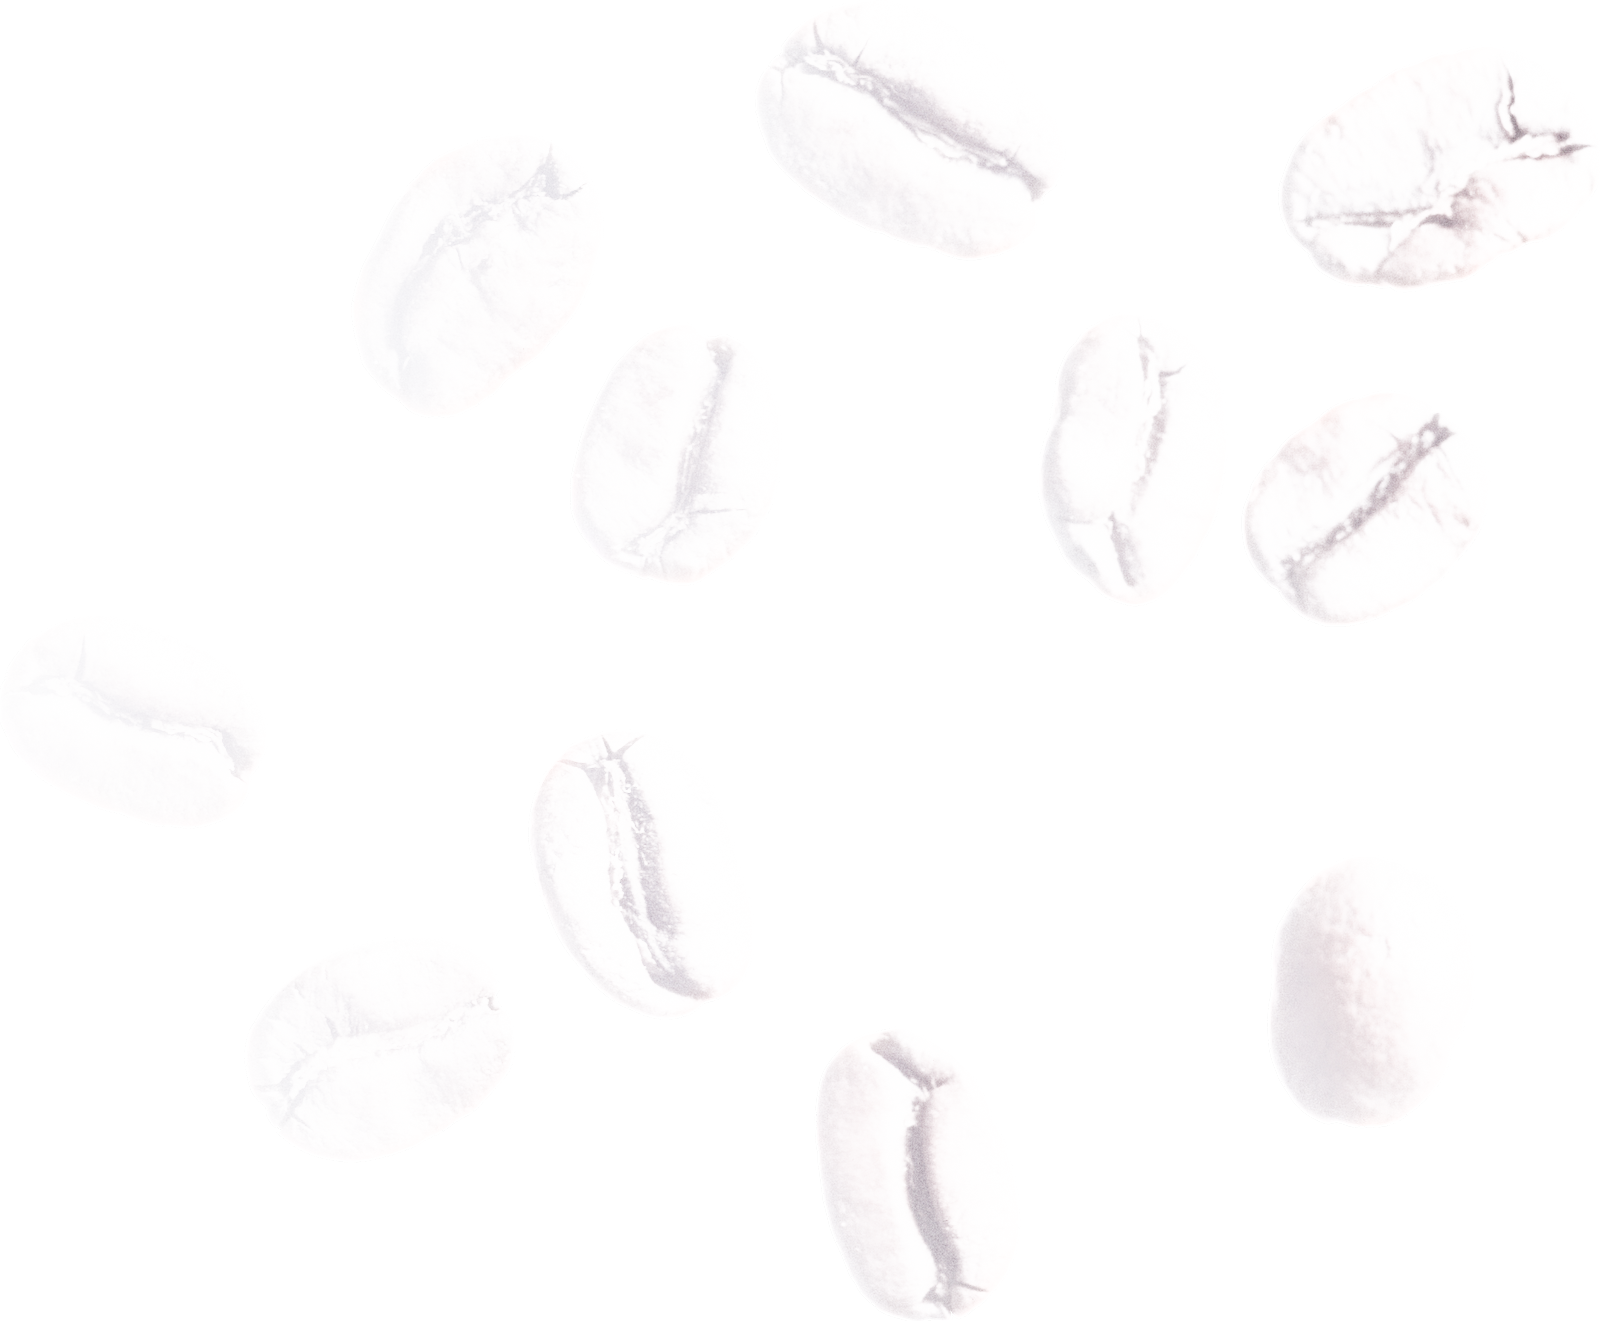
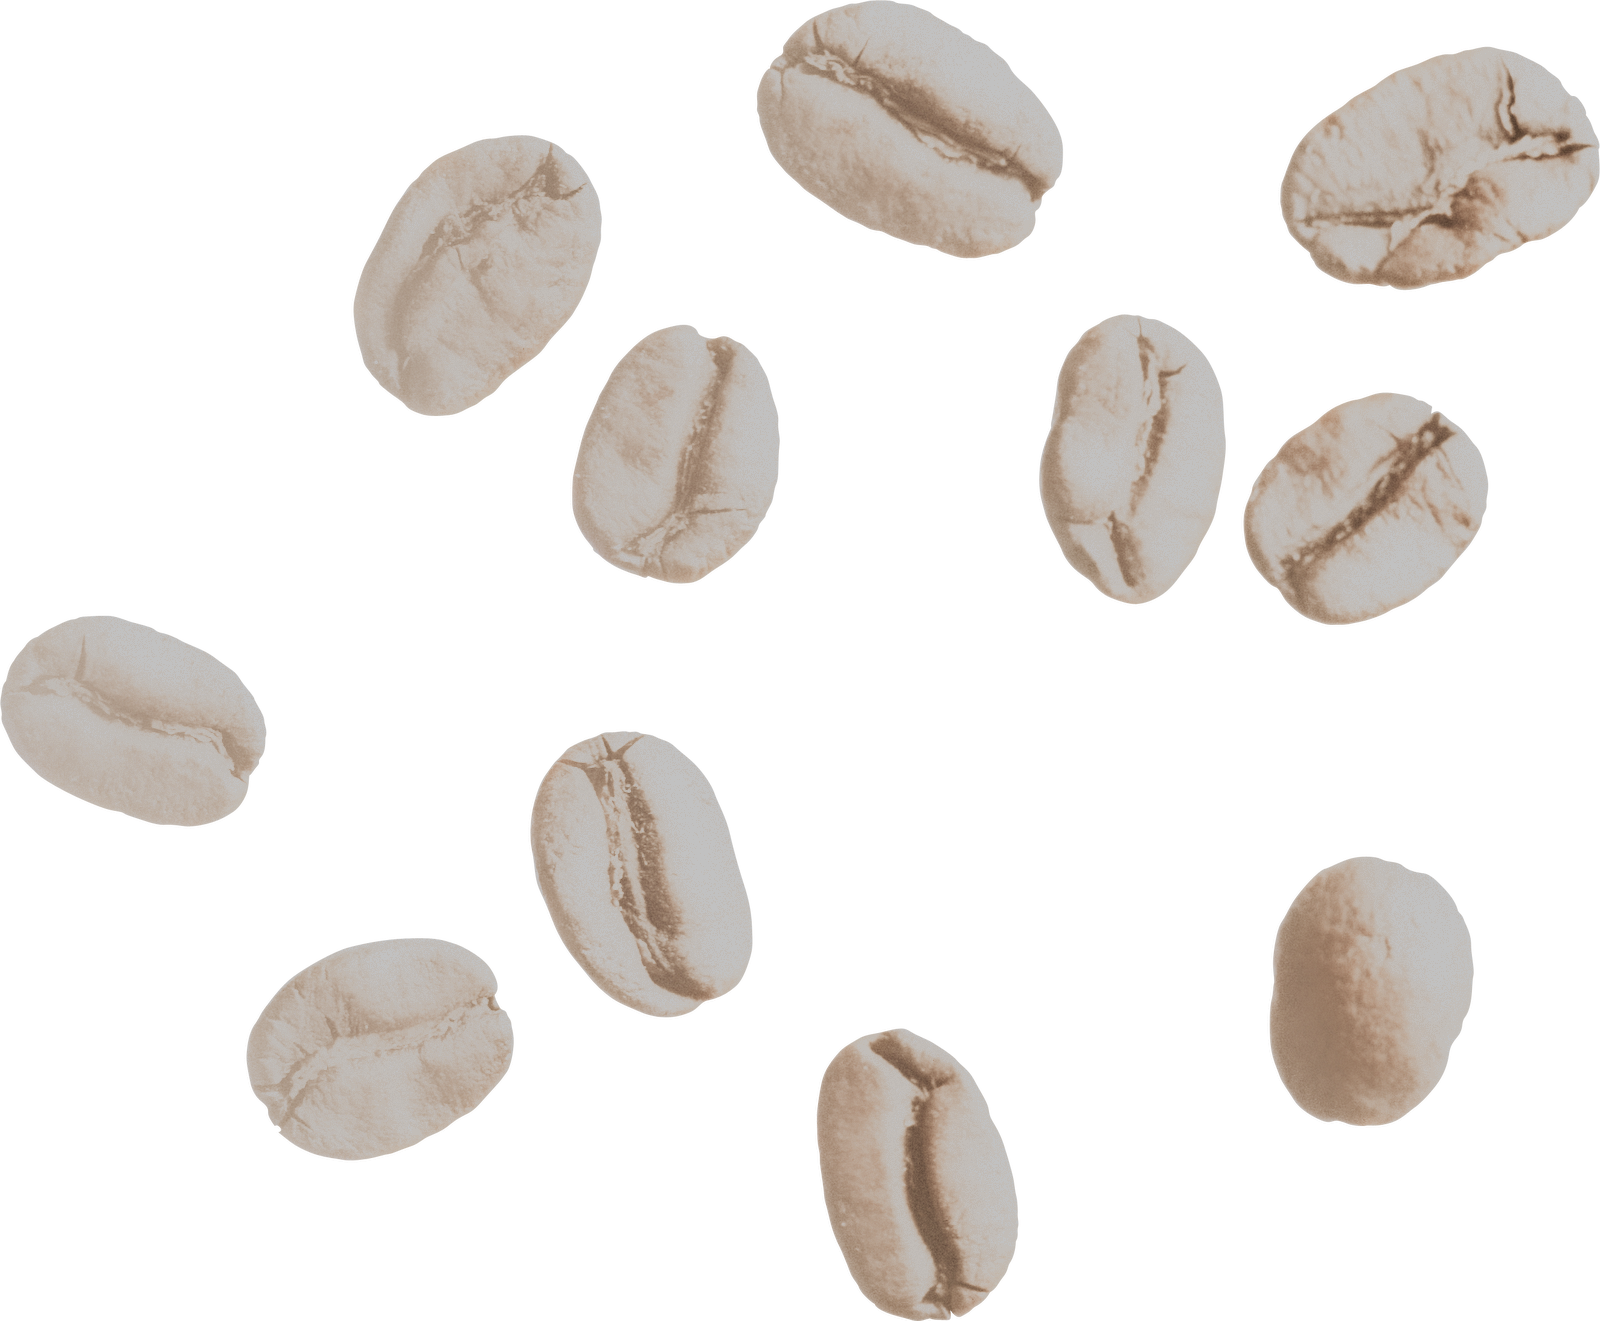
style: stabilizing background coffe in home

diff --git a/components/Hero/Hero.tsx b/components/Hero/Hero.tsx
@@ -118,9 +118,14 @@ const Hero = (props: props) => {
   }, [themes])
   return (
     <div ref={body} className={`${theme === "dark" ? "bg-black" : "bg-white"} h-screen flex   overflow-hidden justify-center`}>
+      {theme === "dark" ?
       <div ref={texthero} className='absolute z-0 w-full left-0 overflow-x-hidden flex h-full -translate-y-400'>
         <Image alt='fallCoffe' fill className='object-cover ' src={"/fallCoffe.png"} />
-      </div>
+      </div>:
+       <div ref={texthero} className='absolute z-0 w-full left-0 overflow-x-hidden flex h-full -translate-y-400'>
+       <Image alt='fallCoffe' fill className='object-cover ' src={"/fallCoffeput.png"} />
+     </div>
+      }
       <div className='w-3/5 pt-40 max-sm:mt-10'>
         <h1 ref={text} className={` ${theme === "dark" ? "text-white" : "text-black"}     text-9xl max-lg:text-8xl max-md:text-7xl max-sm:text-6xl max-[600px]:text-6xl relative  max-sm:-translate-y-12 text-center font-Abril`}><span className='relative z-20'>Make Your Day Chills Like An</span> <span className='relative z-40'>Water</span></h1>
       </div>

diff --git a/components/Landing/Theme.tsx b/components/Landing/Theme.tsx
@@ -19,7 +19,7 @@ const Theme = () => {
 
     return (
         <div className='fixed h-full right-4 flex items-center theme'>
-            <div  className={`w-20 h-20   rounded-lg flex justify-center items-center ${theme === "dark" ? "bg-white" :"bg-"}  border-4 relative border-gray-400`}>
+            <div  className={`w-20 h-20   rounded-lg flex justify-center items-center ${theme === "dark" ? "bg-white" :"bg-black"}  border-4 relative border-gray-400`}>
 
 
                 <div className='h-16 w-16 hover:h-40 cursor-pointer hover:w-40  relative duration-200  '>
